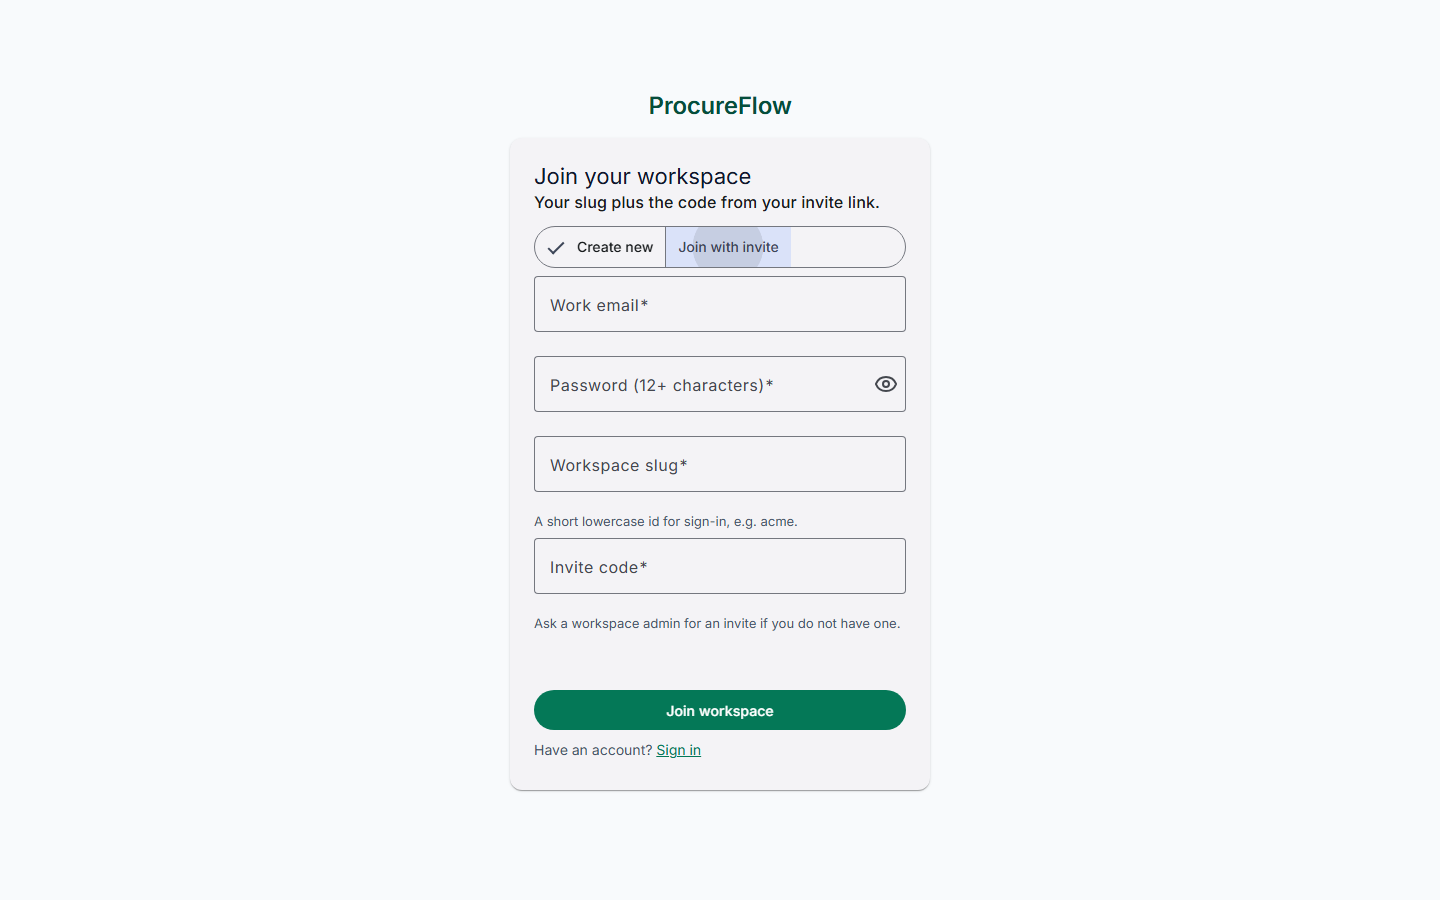
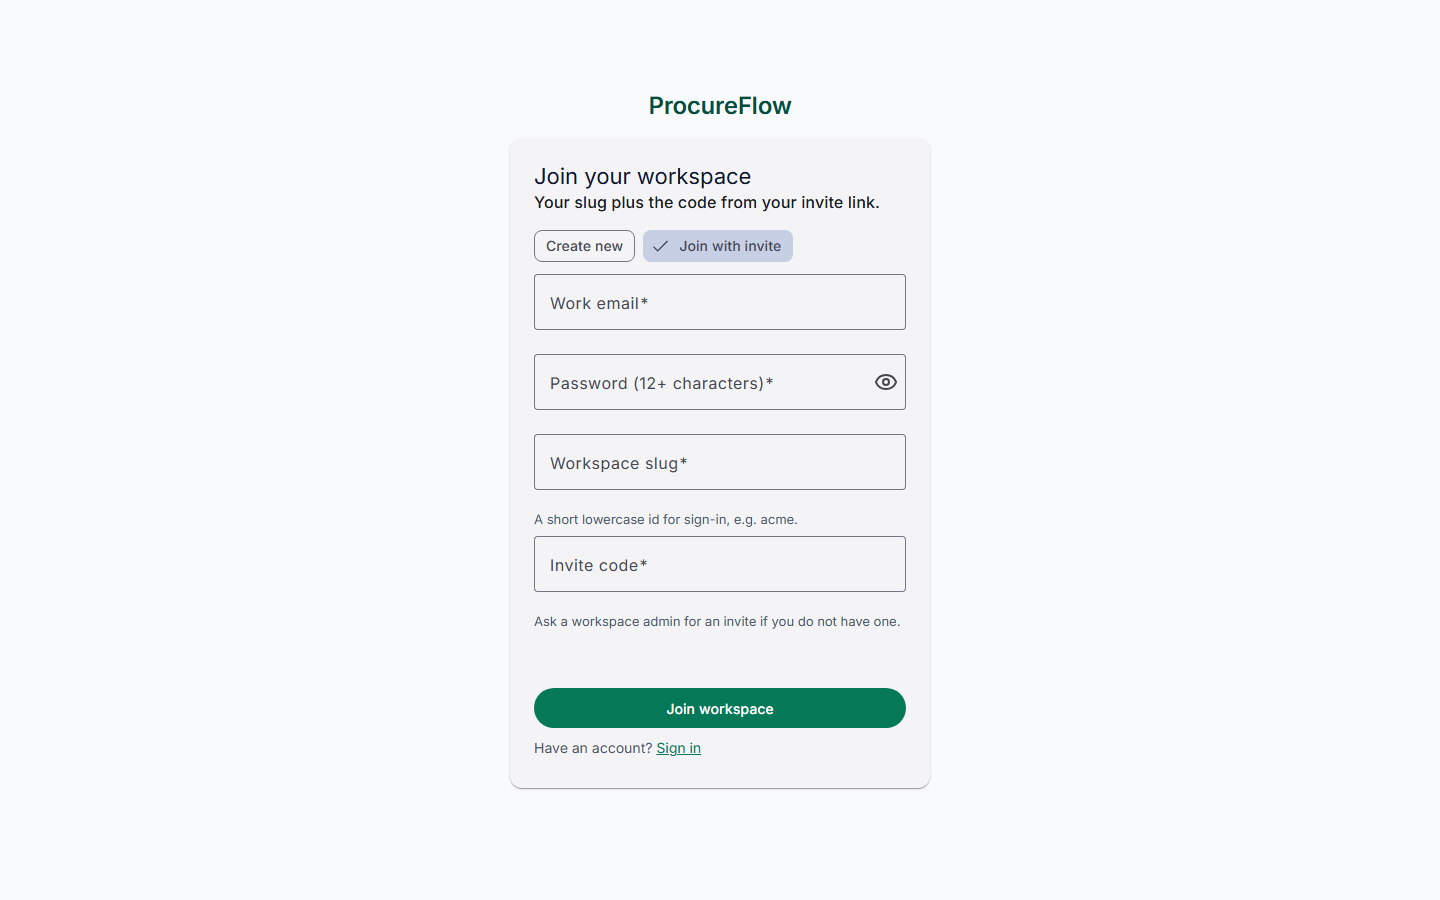
fix(auth): chip toggle for register modes instead of button-toggle
mat-button-toggle-group rendered its checkmark and highlight on different segments; mat-chip-listbox (notifications-filter pattern) sizes to content and keeps selection unambiguous. tsc+build clean, 50/50 Playwright, join screenshot refreshed.

diff --git a/frontend/src/app/features/auth/register.component.ts b/frontend/src/app/features/auth/register.component.ts
@@ -1,8 +1,8 @@
 import { Component, inject, signal } from '@angular/core';
 import { FormControl, FormGroup, ReactiveFormsModule, Validators } from '@angular/forms';
 import { MatButtonModule } from '@angular/material/button';
-import { MatButtonToggleModule } from '@angular/material/button-toggle';
 import { MatCardModule } from '@angular/material/card';
+import { MatChipsModule } from '@angular/material/chips';
 import { MatFormFieldModule } from '@angular/material/form-field';
 import { MatInputModule } from '@angular/material/input';
 import { MatProgressSpinnerModule } from '@angular/material/progress-spinner';
@@ -23,7 +23,7 @@ export type RegisterMode = 'create' | 'join';
  */
 @Component({
   selector: 'app-register',
-  imports: [ReactiveFormsModule, RouterLink, MatCardModule, MatFormFieldModule, MatInputModule, MatButtonModule, MatButtonToggleModule, MatProgressSpinnerModule, LucideAngularModule],
+  imports: [ReactiveFormsModule, RouterLink, MatCardModule, MatFormFieldModule, MatInputModule, MatButtonModule, MatChipsModule, MatProgressSpinnerModule, LucideAngularModule],
   templateUrl: './register.component.html',
   styleUrl: './register.component.scss',
 })

diff --git a/frontend/src/app/features/auth/register.component.html b/frontend/src/app/features/auth/register.component.html
@@ -16,16 +16,16 @@
 
     <mat-card-content>
       <form [formGroup]="form" (ngSubmit)="submit()" class="auth-form">
-        <mat-button-toggle-group
-          class="auth-mode"
-          name="registerMode"
-          aria-label="Create a workspace or join one"
-          [value]="mode()"
-          (change)="setMode($event.value)"
-        >
-          <mat-button-toggle value="create">Create new</mat-button-toggle>
-          <mat-button-toggle value="join">Join with invite</mat-button-toggle>
-        </mat-button-toggle-group>
+        <div class="auth-mode">
+          <mat-chip-listbox aria-label="Create a workspace or join one">
+            <mat-chip-option [selected]="mode() === 'create'" (click)="setMode('create')">
+              Create new
+            </mat-chip-option>
+            <mat-chip-option [selected]="mode() === 'join'" (click)="setMode('join')">
+              Join with invite
+            </mat-chip-option>
+          </mat-chip-listbox>
+        </div>
 
         <mat-form-field appearance="outline">
           <mat-label>Work email</mat-label>

diff --git a/frontend/e2e/auth.spec.ts b/frontend/e2e/auth.spec.ts
@@ -63,7 +63,7 @@ test('register screen explains the workspace model', async ({ page }) => {
   await expect(page).toHaveURL(/\/register/);
   await expect(page.getByText('Create your workspace')).toBeVisible();
   await expect(page.getByLabel('Workspace name')).toBeVisible();
-  await page.getByRole('radio', { name: 'Join with invite' }).click();
+  await page.getByRole('option', { name: 'Join with invite' }).click();
   await expect(page.getByText('Join your workspace')).toBeVisible();
   await expect(page.getByLabel('Invite code')).toBeVisible();
 });

diff --git a/frontend/e2e/a11y.spec.ts b/frontend/e2e/a11y.spec.ts
@@ -84,7 +84,7 @@ test.describe('accessibility', () => {
     await page.goto('/register');
     await expect(page.getByText('Create your workspace')).toBeVisible();
     await expectAxeClean(page);
-    await page.getByRole('radio', { name: 'Join with invite' }).click();
+    await page.getByRole('option', { name: 'Join with invite' }).click();
     await expect(page.getByText('Join your workspace')).toBeVisible();
     await expectAxeClean(page);
   });

diff --git a/context/progress-tracker.md b/context/progress-tracker.md
@@ -93,13 +93,15 @@ review, README/portfolio overhaul, demo workspace docs.
   region reserves two lines (no button jump); footer links wrap as units.
 - Password visibility toggles on login + register (settings pattern);
   login guards the empty-slug resubmit loop with a field error.
-- Register split into Create/Join toggle (mat-button-toggle-group):
+- Register split into Create/Join chips (mat-chip-listbox, the
+  notifications-filter pattern — mat-button-toggle-group rendered its
+  checkmark and highlight on different segments, so it was replaced):
   per-mode titles, subtitles, fields, validators and submit labels;
   INVITE_REQUIRED/TENANT_NAME_REQUIRED auto-flip to the fixing mode.
 - Shared `.auth-note/.auth-alert/.auth-actions` tokens in styles.scss;
   per-component duplications removed; forgot-password takes the same
   overlap fix. E2E uses exact password-label matching (toggle buttons
-  carry "Show password") and radio roles for the toggle.
+  carry "Show password") and option roles for the chips.
 - Verified: tsc + build clean, 29 Vitest, 50/50 Playwright
   (chromium+firefox, incl. new register-mode axe scans); evidence in
   `docs/screens/auth-{login-error,register-create,register-join,login-mobile}.png`.
